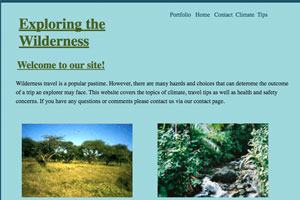
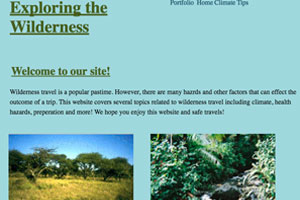
Add files via upload
Commit for Draft

diff --git a/index.html b/index.html
@@ -1,7 +1,12 @@
+<!DOCTYPE html>
+<html lang="en">
 <head>
-		<title>Molly's Blog</title>
+		<meta charset="UTF-8">	
+		<title>Portfolio</title>
 		<link rel="stylesheet" type="text/css" href="main.css">
 </head>
+
+	<body>
 
 		<header>
 
@@ -10,51 +15,127 @@
 			<ul>
 				<li><a href="#">Home</a></li>
 				<li><a href="reference.html">Info</a></li>
+				<li><a href="process.html">Wilderness Process</a></li>   
 				<li><a>Projects</a>				
 					<ul>
 						<li><a href="wdfinal/index.html">Work</a></li>
 						<li><a href="webdevfinal/acornmain.html">Camp</a></li>
 						<li><a href="rdwk6/public/index.html">Como</a></li>	
-						<li><a href="apswebsite/intro.html">Wilderness</a></li>				
+						<li><a href="apswebsite/intro.html">Wilderness</a></li>			
 					</ul>
-				   </li>	
+				 </li>	
 			</ul>
+
+			<!--Links to projects, contact and professional information-->
 
 		</header>	
 
-		<body>
+
+			<p>My  name is Molly Hennessy. I am a student at the Minneapolis College of Art and Design where I am a second year student in the Interactive Design and Marketing program. I have created this website to showcase my experience and skills. I have included several projects that I created during the course of my time at MCAD. The links to these projects can be found on the navigation menu  as well as on the sub-headings listed under projects. Below I have included a brief listing of the assisgnment goals and technologies used for each project. Additionally, I have included a webpage dedicated as an overview of the process of completing one of my projects, Exploring the Wilderness. This webpage can be found by clicking on the Wilderness Process link in the main navigation menu. After completing my studies at MCAD my career goals are to obtain employment in front-end web development or project management. I am especially interested in organizations that focus on accessibility, humanitarian causes and community development.</p>
+
+			<!--Personal statement above, four projects listed below in order of completion, all have been previously revised-->
 
 
-			<p>My  name is Molly Hennessy. I am a student at the Minneapolis College of Art and Design where I am a second year student in the Interactive Design and Marketing program. I have created this website to showcase my experience and skills. I have included several projects that I created during the course of my time at MCAD. The links to these projects can be found on the navigation menu listed under projects. Below I have included a brief description of each project. After completed by studies at MCAD my career goals are too obtain employment in web development or project management.</p>
+		<section class="projects">	
 
+			<h2>Projects</h2>
 
+				<h3> <a href="wdfinal/index.html">Occupational Issues in Minnesota</a></h3>
 
-			<h2>Project Images</h2>
+					<img id="work" src="images/workers.jpg" alt="workers image">
 
+					<p>My Occupational Issues in Minnesota website was created for my Web Design Principals course at MCAD. The assignment was to design a project focusing on an issue impacting our community. The project included several steps including writing a project proposal, conducting research, creating wireframes and style tiles and finally implementing the design and development of the website. Initially HTML and CSS were used to display web design and development skills. Later on I added Responsive Design and Javascript to increase user accessibility.</p>
 
-				<img src="images/workers.jpg" alt="workers image">
-				<img src="images/acornorigin.jpg" alt="Camp Acorn">
-				<img src="images/como.jpg" alt="Como Park">
-				<img src="images/wilderness.jpg" alt="Exploring the Wilderness">
+						<h4>Assignment Goals</h4>
 
-			<h2>Project Discriptions</h2>
+							<ul>
+								<li>Choose an important issue effectiong our community</li>
+								<li>Design a website to address this issue</li>
+								<li>Display knowledge of our Web Design and Development skills</li>
+							</ul>
 
-				<h3>Occupational Issues in Minnesota</h3>
+						<h4>Technologies</h4>
 
-					<p>This website was created as part of my Web Design Principals Course during my first year at MCAD. This was a design based final assignment that required us to create a website featuring some issue in our community. I chose to focus on occupational issues in Minnesota. In addition to the HTML and CSS I have included Responsive Design on the webpages.</p>
+							<ul>
+								<li>HTML</li>
+								<li>CSS</li>
+								<li>Responsive Design</li>
+								<li>Javascript and Jquery</li>
+							</ul>
 
-				<h3>Camp Acorn</h3>
-				
-					<P>This website was initially created as partof my web development course  during my first year at MCAD. This was part of a final project where we were assigned to create a three page website featuring our HTML and CSS skills. I decided to create a fictional kids sports summer camp theme for my website. The website includes images, general information about the camp, activities and sports offered. Later I added Javascript and Responsive Design to the webpages.</P>
+				<h3> <a href="webdevfinal/acornmain.html">Camp Acorn</a></h3>
 
-				<h3>Como Park Friends</h3>
-				
-					<p>This website was created for my Responsive Design course at MCAD. This course and this project had both a web design and development focus. This assignment was to find a website online and redesign three pages of the website. I choose the Como Park and Conservatiory website. When creating these pages I incuded design elements, HTML, CSS, SCSS and Responsive Design.</p>
+					<img id ="camp" src="images/camp.jpg" alt="Camp Art">
 
-				<h3>Exploring the Wilderness</h3>	
+					<p>My Camp Acorn website is a fictional camp website that was initially created as part of my first web development course. The assignment was to create a three page website demonstrating our HTML and CSS skills. Additionally the assignment required the use of images, links and two-column grids. Initially HTML and CSS were used for the website to display my recently aquired knowledge. Later I added Javascript and Jquery as part of an assignment for my Javascript and Jquery class. I also recently added Responsive Design. These additional technologies allow for the user to interact with the website as well as for allowing more accessibility.</p>
+					
+						<h4>Assignment Goals</h4>
 
-					<p>This website was created as a semester long project for my Advanced Projects Studio course at MCAD. For this website I decided on a front-end web development focus. I created a website with a wilderness theme. The website consists of ten pages of information about climates, camping tips and survival skills. For this website I have included HTML, CSS, Javascript, PHP and Responsive Design.</p>		
+							<ul>
+								<li>Create a three page website on a topic of our choosing</li>
+								<li>Display HTML and CSS skills learned in the Web Development course</li>
+								<li>Javascript and Responsive Design were added later</li>
+							</ul>
 
+						<h4>Technologies</h4>
+
+							<ul>
+								<li>HTML</li>
+								<li>CSS</li>
+								<li>Responsive Design</li>
+								<li>Javascript and Jquery</li>
+								<li>Git and Github</li>
+							</ul>				
+
+				<h3> <a href="rdwk6/public/index.html">Como Park Friends</a></h3>
+
+					<img id="como" src="images/como.jpg" alt="Como Park">
+
+					<p>The Como Park Friends website was created as part of my Responsive Design course at MCAD. The goal of the assignment was to find a website on the web that we felt could use improvement. I chose the Como Park Zoo and Conservatory website. As part of the assignment I re-designed the website so it could be used effectively with three different screen sizes, desktop, tablet and mobile devices. As part of the assignment I used HTML, CSS, SASS and Responsive Design for this website. Additionally as a method of sharing our work and providing feedback more effectivly my classmates and I displayed our work on Github and provided a link so others could review and provide feedback for our work.</p>
+					
+						<h4>Assignment Goals</h4>
+
+							<ul>
+								<li>Select a website online that we feel needs improvement</li>
+								<li>Create a three page website using Responsive Design with design features and coding for three different screen sizes</li>
+								<li>Include the improvements for the website that we feel are needed</li>
+								<li>Demostrate the use of Responsive Design with the use of SASS</li>
+							</ul>
+
+						<h4>Technologies</h4>
+
+						<ul>
+							<li>HTML</li>
+							<li>CSS and SASS</li>
+							<li>Responsive Design</li>
+							<li>Git and Github</li>
+						</ul>						
+
+				<h3> <a href="apswebsite/intro.html">Exploring the Wilderness</a></h3>	
+
+					<img id = "wild" src="images/wilderness.jpg" alt="Exploring the Wilderness">
+
+					<p>The Exploring the Wilderness website was created as part of my Advanced Projects Studio course at MCAD. The assignment was to create a project to meet individual goals and program objectives. I decided to create a website with a wilderness travel theme. There were various steps in completing this project including proposal, research, wireframes, style tiles and finally coding. In the navigation menu there is a link titled Wilderness Process, this page describes the process of completing the project in more detail. The technologies for this website include HTML, CSS, Responsive Design and Github. Additionally, I added a few animations to increase usability..</p>
+					
+						<h4>Assignment Goals</h4>
+
+							<ul>
+								<li>Design a project of our choosing that meets personal goals and program objectives.</li>
+								<li>Write a proposal for the project including a management plan, schedule, goals and technologies to be used</li>
+								<li>Created a website with a wilderness theme focusing on climate, wilderness travel and survival tips</li>
+								<li>Covered several technologies learned throughout the IDM program</li>
+							</ul>
+
+						<h4>Technologies</h4>
+
+							<ul>
+								<li>HTML</li>
+								<li>CSS</li>
+								<li>Responsive Design</li>
+								<li>Git and Github</li>
+							</ul>	
+
+				</section>					
 
    	    </body>
 

diff --git a/process.html b/process.html
@@ -1,0 +1,63 @@
+<!DOCTYPE html>
+<html lang="en">
+<head>
+		<meta charset="UTF-8">	
+		<title>Molly's Blog</title>
+		<link rel="stylesheet" type="text/css" href="main.css">
+</head>
+
+	<body>
+
+		<header>
+
+			<h1>Molly's Blog</h1>
+
+			<ul>
+				<li><a href="index.html">Home</a></li>
+				<li><a href="reference.html">Info</a></li>
+				<li><a href="process.html">Wilderness Process</a></li>  
+				<li><a>Projects</a>				
+					<ul>
+						<li><a href="wdfinal/index.html">Work</a></li>
+						<li><a href="webdevfinal/acornmain.html">Camp</a></li>
+						<li><a href="rdwk6/public/index.html">Como</a></li>	
+						<li><a href="apswebsite/intro.html">Wilderness</a></li>			
+					</ul>
+				</li>	
+			</ul>
+
+		</header>	
+
+		   <section class="process">
+
+				<h2>Process of Explore the Wilderness website</h2>
+
+				<p>The Expolore the Wilderness website was completed as part of my Advanced Projects Studio course. The project invovled multiple steps as I have indicated below.</p>
+
+				<h3>Steps in completing website</h3>
+
+					<ul>
+						<li>Proposal and Management Plan outlining goals, schedule and technologies to be used</li>
+						<li>Market Research on similar websites</li>
+						<li>Creating content and selecting images for project.</li>
+						<li>Mood Board displaying color themes and images.</li>
+						<li>Wireframes</li>	
+						<li>Multiple sample style tiles to determine the best design style for the website.</li>
+						<li>HTML and CSS</li>
+						<li>Responsive Design and animations</li>
+						<li>Met with professor frequently to discuss progress on the project</li>
+						<li>Submitted final project on Github</li>
+					</ul>
+
+				<!--Steps taken to complete Explore the Wilderness project. Below are examples of the work completed during the course of completing the project.-->
+
+				<h3>Mood Board</h3>
+			
+				<img src="images/board.jpg" alt="Mood Board">	
+
+			<!--Demostrates image and color themes for website-->
+
+
+		</section>
+
+		</body>

diff --git a/reference.html b/reference.html
@@ -1,7 +1,12 @@
+<!DOCTYPE html>
+<html lang="en">
 <head>
+		<meta charset="UTF-8">	
 		<title>Molly's Blog</title>
 		<link rel="stylesheet" type="text/css" href="main.css">
 </head>
+
+	<body>
 
 		<header>
 
@@ -10,6 +15,7 @@
 			<ul>
 				<li><a href="index.html">Home</a></li>
 				<li><a href="#">Info</a></li>
+				<li><a href="process.html">Wilderness Process</a></li>   
 				<li><a>Projects</a>				
 					<ul>
 						<li><a href="wdfinal/index.html">Work</a></li>
@@ -17,21 +23,23 @@
 						<li><a href="rdwk6/public/index.html">Como</a></li>	
 						<li><a href="apswebsite/intro.html">Wilderness</a></li>				
 					</ul>
-				   </li>	
+			 	</li>    	
 			</ul>
 
 		</header>	
-
-		<body>
    	  	
-			<p>If you have any questions please free to contact me. I have included my E-mail below. Additionally, I have included links to my Github and Linkedin accounts. My Github account includes several projects that I completed for MCAD. My Linkedin account includes my academic, employment and volunteer experience and skills.</p>
+			<p>If you have any questions please free to contact me. I have included my E-mail below. Additionally, I have included links to my Github and Linkedin accounts. My Github account includes the coding files for the projects included in this portfolio. My Linkedin account includes my academic, employment and volunteer experience and skills.</p>
+
+
+			<section class="info">
 
 				<ul>
 					<li>E-mail: mollymhennessy@gmail.com</li>
-					<li><a href="#">Github</a></li>
-					<li><a href="#">Linkedin</a></li>
+					<li><a href="https://github.com/mmhennessy/IDMreview">Github</a></li>
+					<li><a href="https://www.linkedin.com/in/molly-hennessy-82197536//">Linkedin</a></li>
 				</ul>
-
+				<!--Link to Github includes coding for this portfolio and its related content. Linkedin includes professional and academic experience and skills. Email is my personal Email address.-->
+			</section>	
 
    	  	</body>
 

diff --git a/main.css b/main.css
@@ -3,13 +3,32 @@
 
 html {
 	margin: auto;
-	border: 0.5em solid blue;
-	background-color: #b5d9ec;
+	border: 0.2em solid black;
+	background-color: transparent;
 }
 
 h1 {
 	color: green;
 	font-size: 2em;
+}
+
+h2 {
+	margin-top: 1em;
+}
+
+h2, h3 {
+	font-size: 1.7em;	
+}
+
+ h3 a {
+ 	text-decoration: none;
+ }
+
+h4 {
+	font-size: 1.5em;
+}
+
+h1, h2, h3, h4 {
 	font-family: times new roman, serif;
 }
 
@@ -50,7 +69,7 @@ header li:hover li {
 
 p {
 	padding-top: 2em;
-	line-height: 1.3em;
+	line-height: 1.4em;
 	font-size: 1.3em;
 	font-family: arial, sans-serif;
 }
@@ -65,6 +84,11 @@ p {
 }
 
 @media screen and (min-width: 640px){
+	html {
+	border: 0.5em solid blue;
+	background-color: #b5d9ec;
+	}
+
 	header ul {
 		text-align: center;
 	}
@@ -75,15 +99,30 @@ p {
 		border: 0.1em solid black;
 	}
 
+	h3 {
+		padding-top: 0.3em;
+	}
+
 	p {
 		padding-top: 2.6em; 
 	}
 }
 
 @media screen and (min-width: 960px){
-	p {
-		padding: 2.7em 2em 0 2em;
-		line-height: 1.5em;
-	}
+h1, h2, h3, h4, p {
+	padding-left: 0.5em;
+  }
+
+ h1 {
+ 	padding-top: 0.3em; 	
+ } 
+
+ h2, h3 {
+ 	padding-top: 0.5em;
+ }
+ 
+ #work, #camp, #como, #wild {
+ 	padding-left: 1em;
+ }
 }
 
